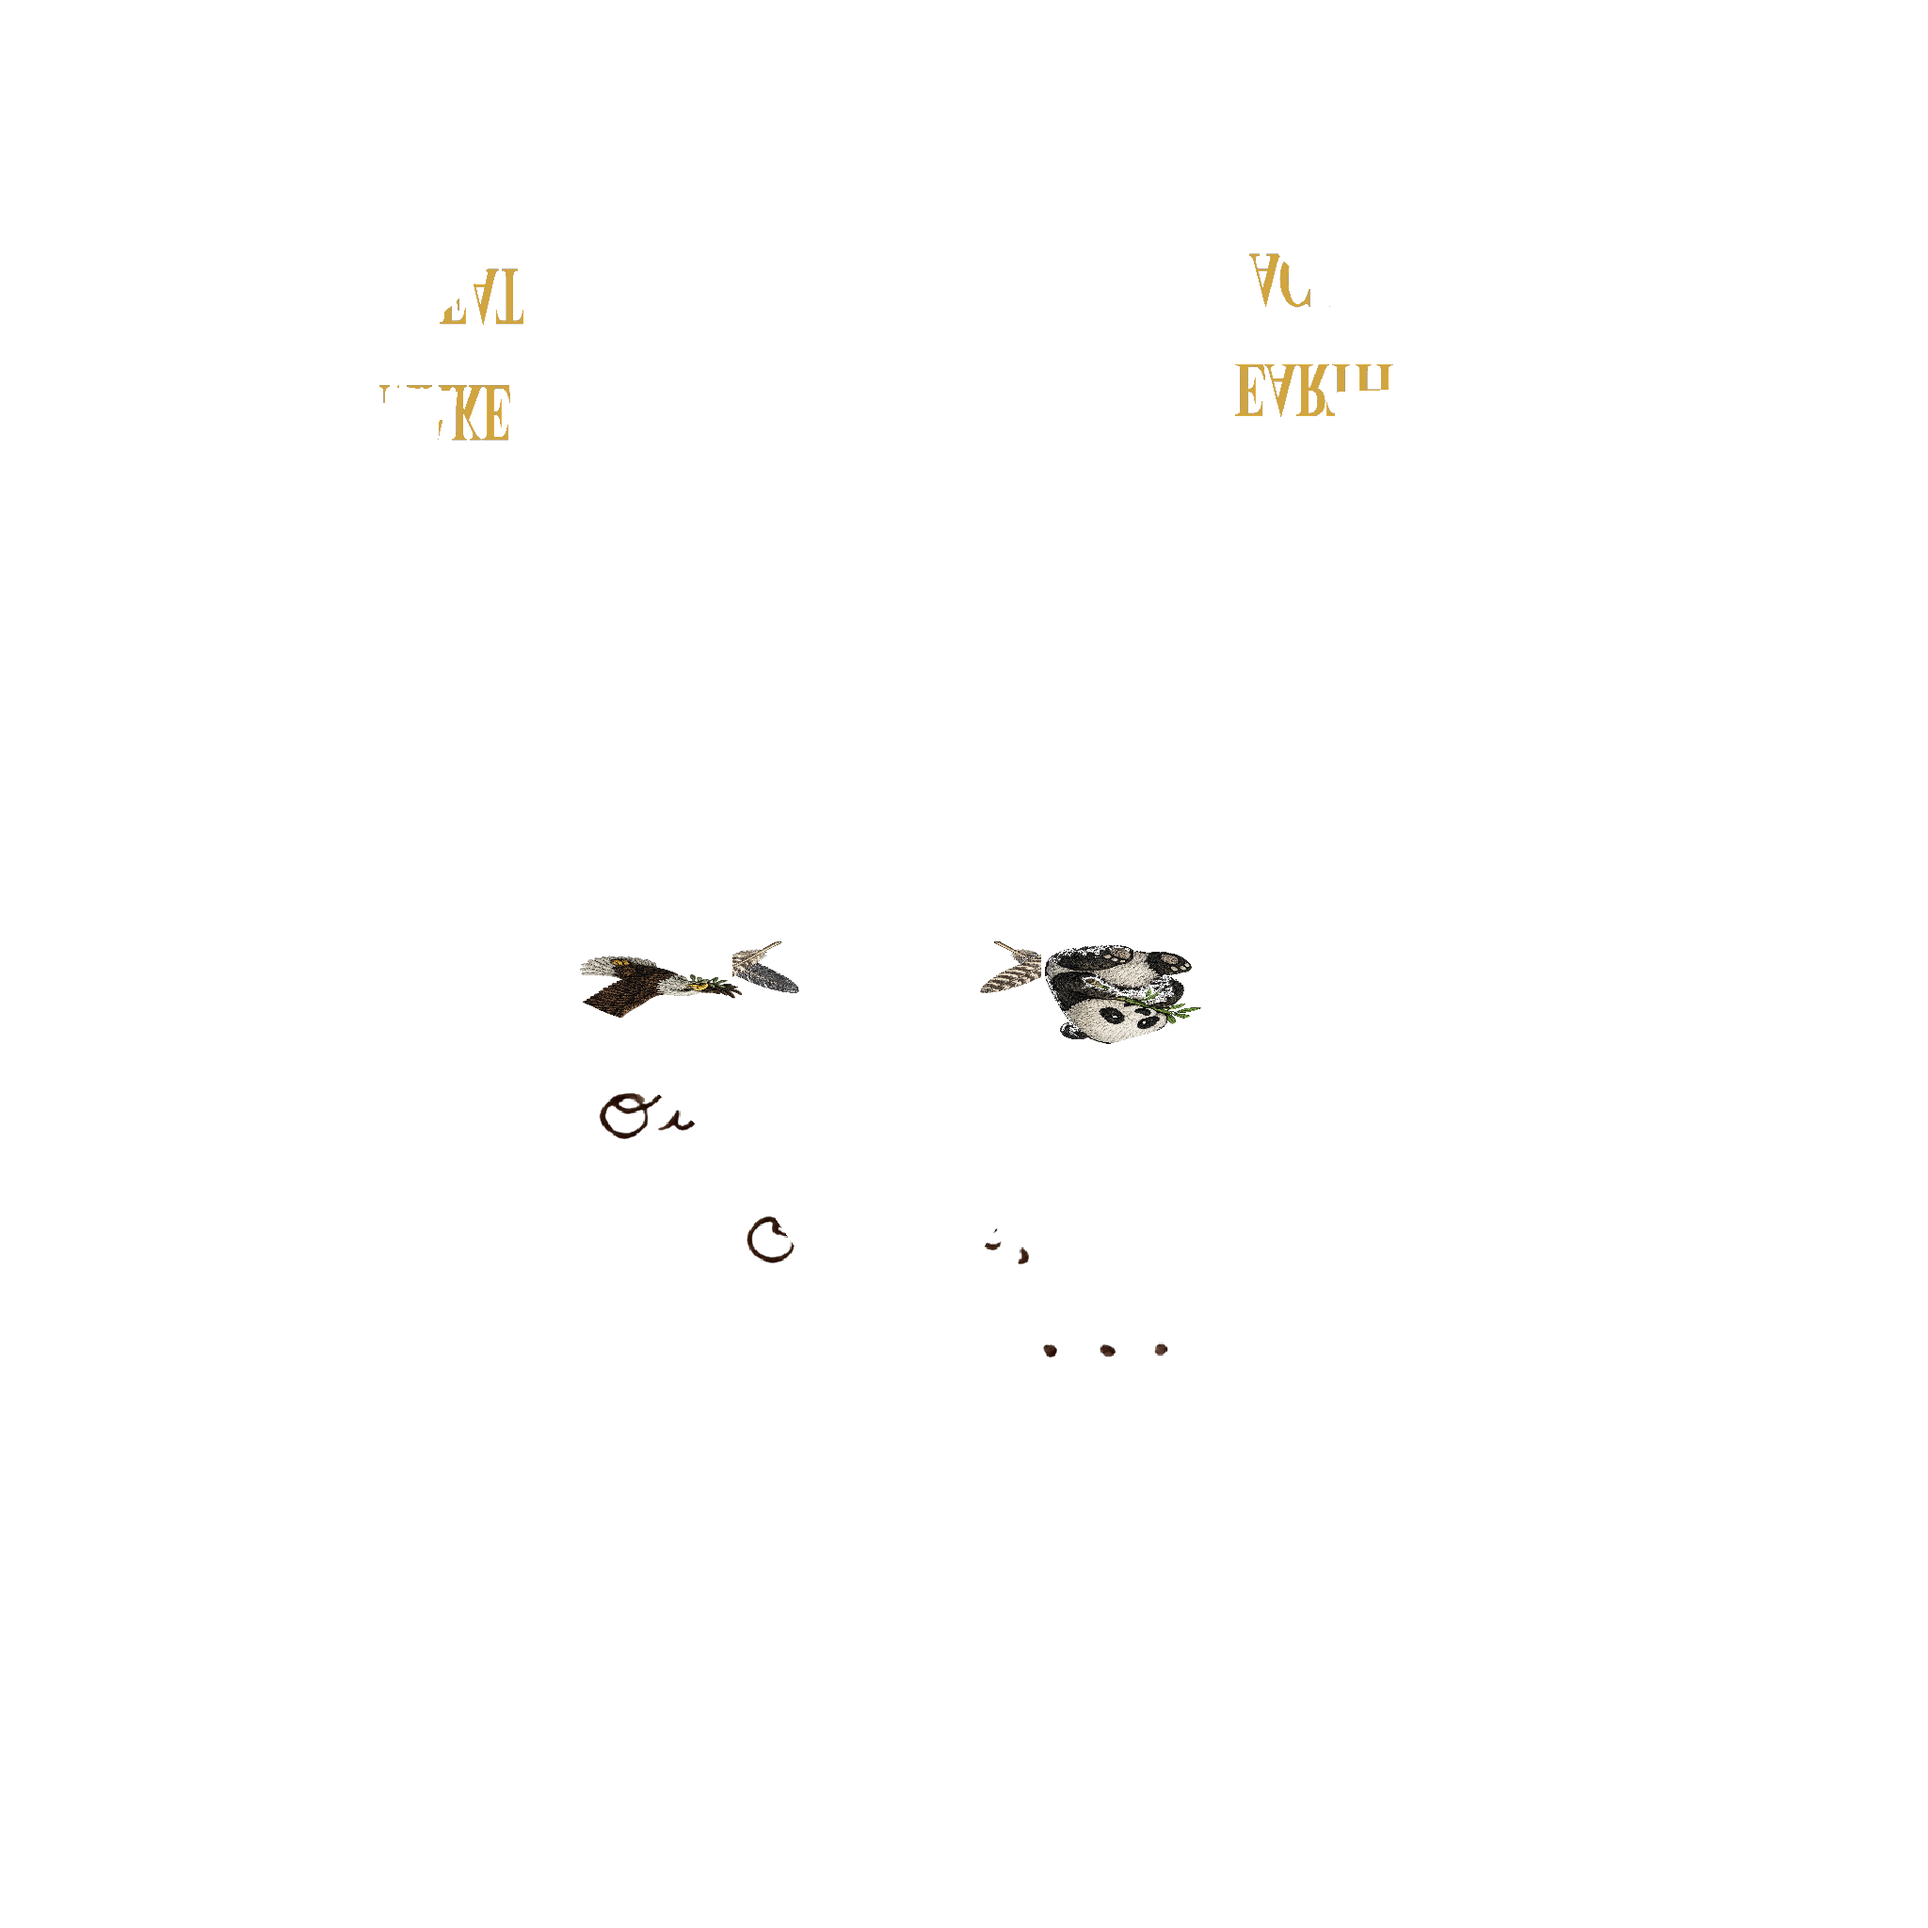
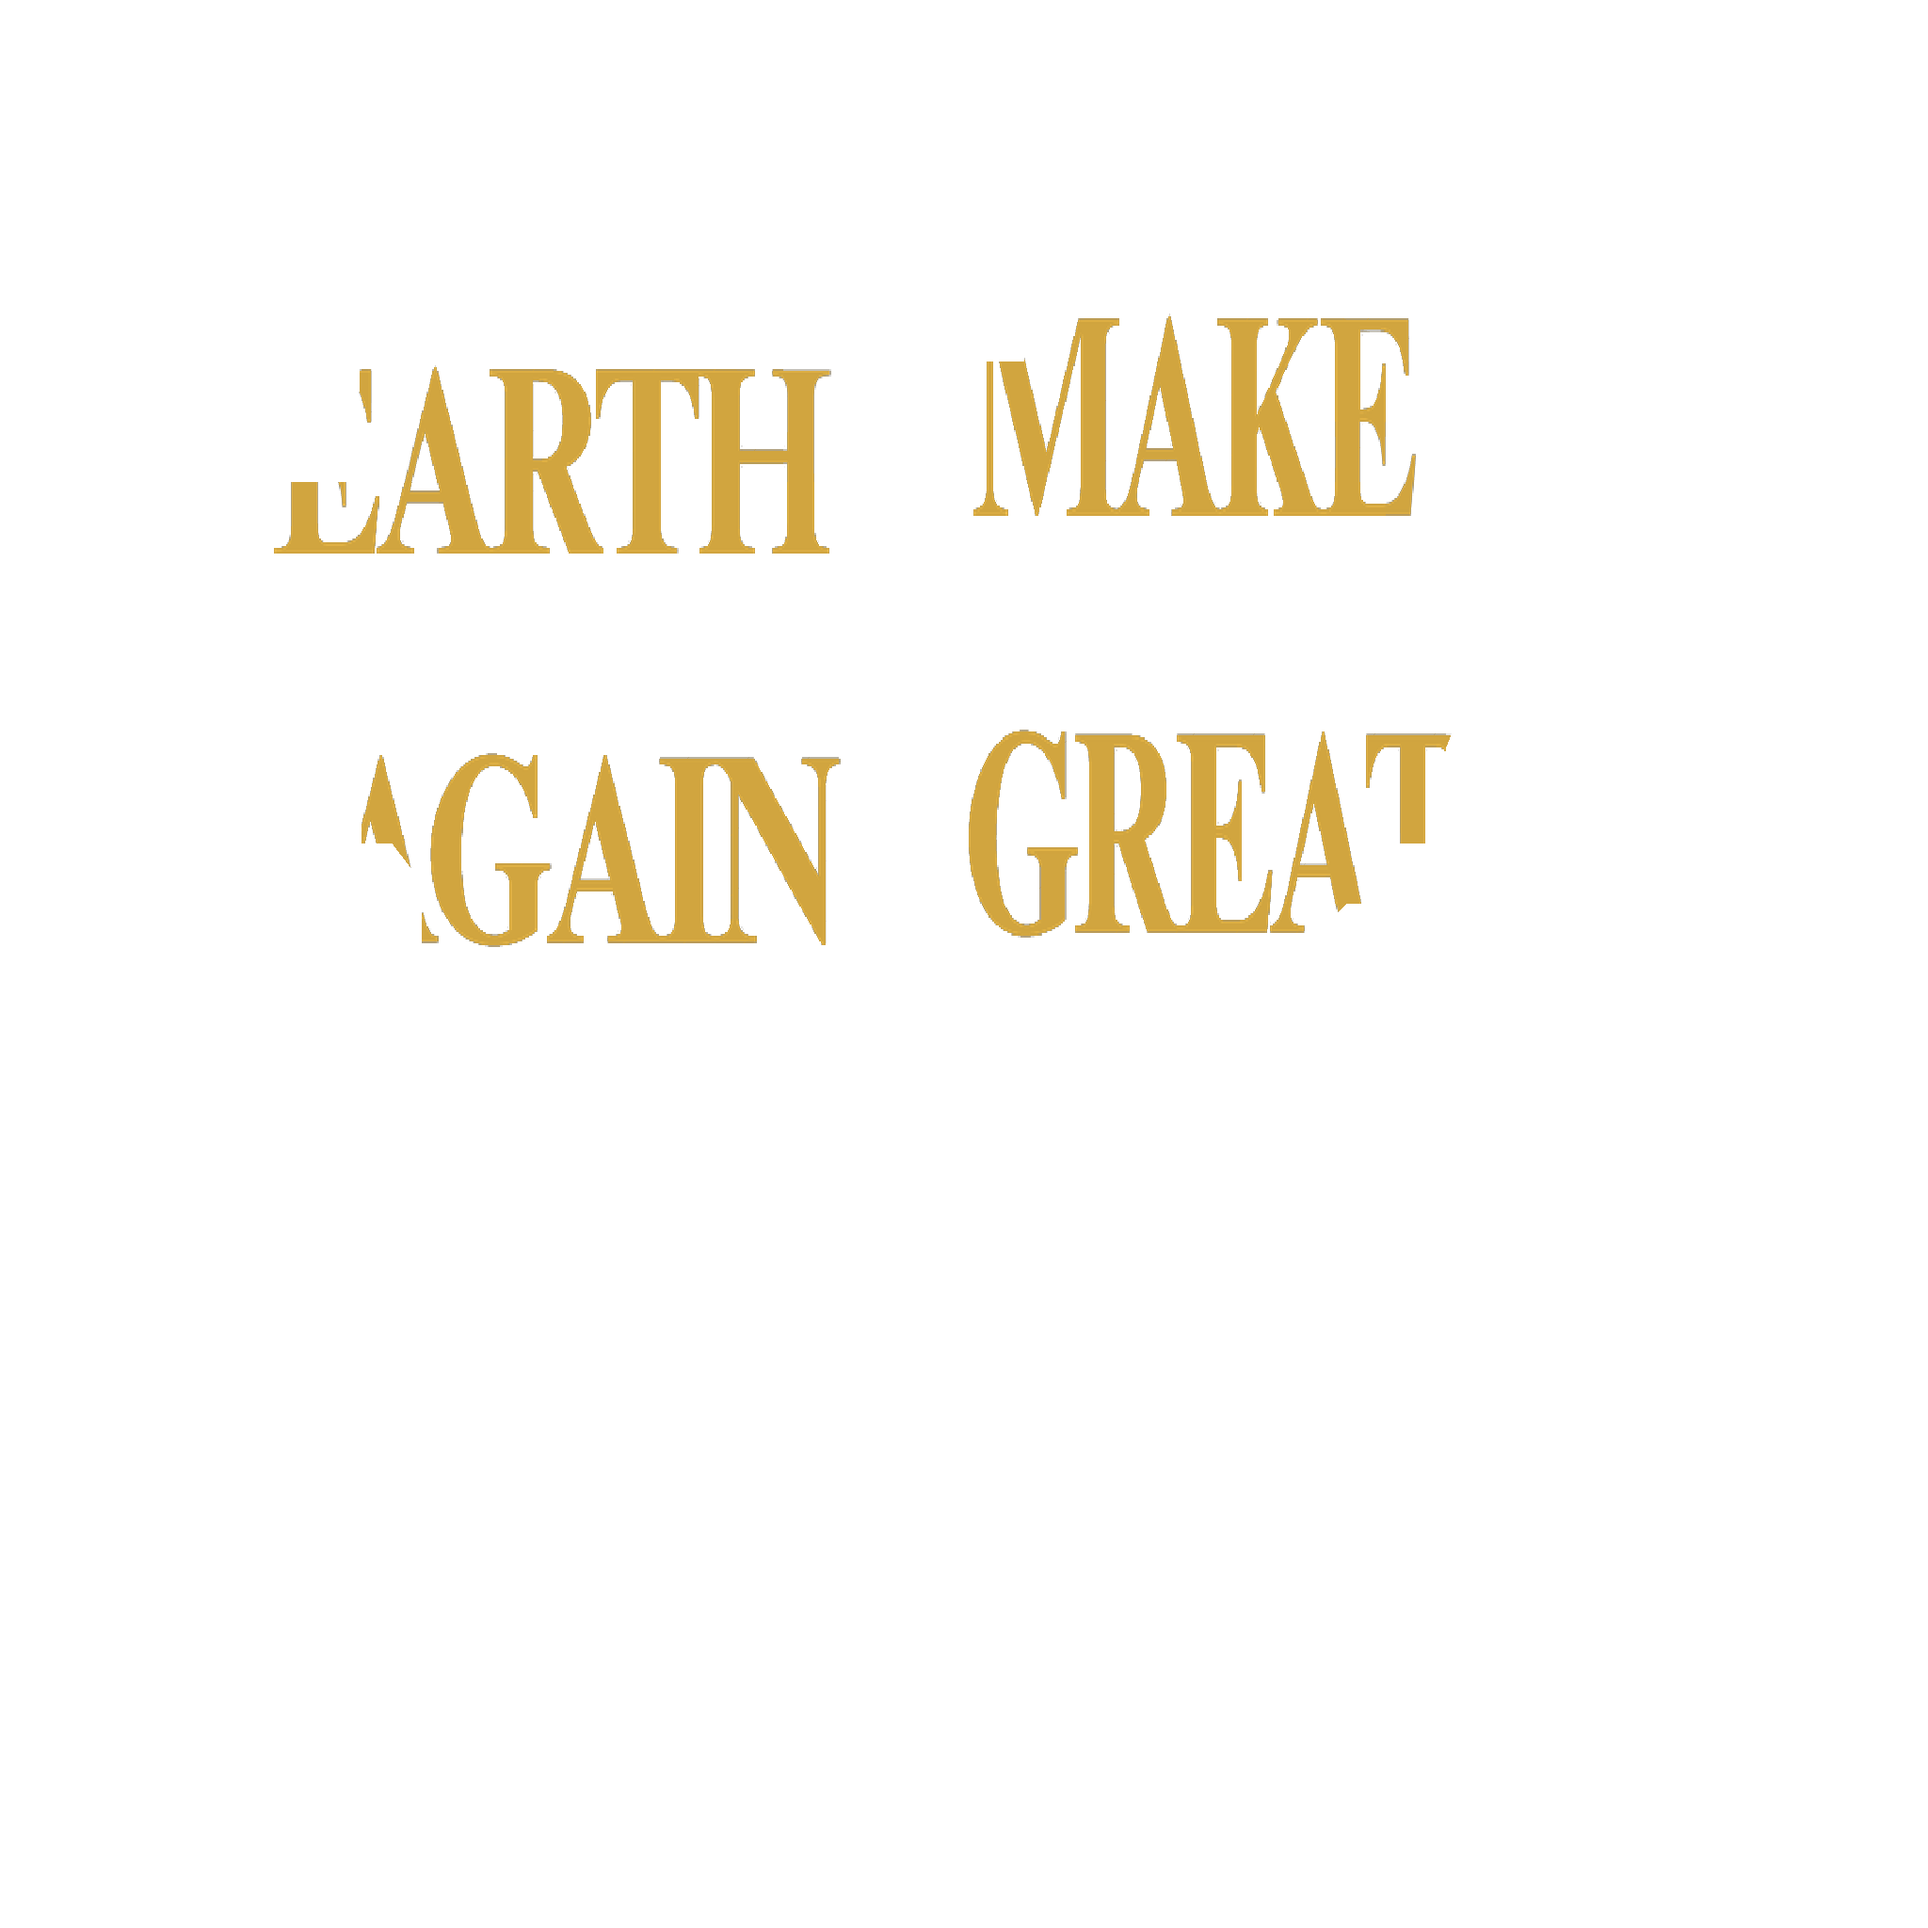
fix(hat): clean back of cap — drop eagle/panda/feathers from atlas + defaults
The cap mesh's UV layout has +Y back-facing tris overlapping the upper
half of the outer panels in V — the same atlas pixels are sampled by
both the front face (where MEGA lives) and the back wall. Painting
eagle/panda/feathers into the LOW-V half of each panel produced
fragmented decal artifacts visible on the rear of the rendered cap.

- bake_cap_decals.py: remove the eagle / panda / feathers / inside-label
  paint blocks. Atlas now contains only the front MEGA text. Hit log
  shows mega_L=408369 mega_R=396251, no other decals.
- types/hat.ts: drop the back/inside decals from the default cap. They
  remain available as decal definitions but aren't applied by default.
  Re-enabling requires a re-UV-unwrap so front and back occupy
  disjoint UV islands.
- public/images/cap_decals_atlas.png: regenerated. 17 KB smaller; back
  of rendered cap is now clean white.

diff --git a/src/types/hat.ts b/src/types/hat.ts
@@ -152,13 +152,13 @@ export function buildHat(colorway: Colorway): HatConfig {
     textColor: c.text,
     textStyle: 'gold-embroidery',
     size: 'M',
-    decals: [
-      FRONT_TEXT_DECAL,
-      BACK_EAGLE_DECAL,
-      BACK_FEATHERS_DECAL,
-      BACK_PANDA_DECAL,
-      INSIDE_LABEL_DECAL,
-    ],
+    // Default cap: front MEGA text only. The eagle / panda / feathers /
+    // inside-label decals are intentionally NOT in the default set —
+    // they're projected onto UV regions that bleed onto the back panel
+    // due to the current cap mesh's shared-island UV layout. Re-enable
+    // them here only after the mesh is re-UV-unwrapped with disjoint
+    // front/back islands.
+    decals: [FRONT_TEXT_DECAL],
   };
 }
 

diff --git a/scripts/bake_cap_decals.py b/scripts/bake_cap_decals.py
@@ -169,21 +169,23 @@ def uv_bbox_for_zone(tris, predicate):
     if not us: return None
     return (min(us), min(vs), max(us), max(vs))
 
+# Predicates tuned for the current .glb (X∈[-95..95], Y∈[-113..82], Z∈[-15..112]).
+# Front of cap = -Y (where the brim extends).  Back = +Y (strap).  Crown = +Z.
 def front_face_uv_bbox(tris):
     return uv_bbox_for_zone(tris, lambda t:
-        t['cy'] > 3.0 and 0.5 <= t['cz'] <= 3.0 and abs(t['normal'].y) > 0.5)
+        t['cy'] < -25.0 and 30.0 <= t['cz'] <= 80.0 and t['normal'].y < -0.4)
 
 def side_face_uv_bbox(tris, sign_x):
     """sign_x = -1 for cap-LEFT side panel, +1 for cap-RIGHT."""
     return uv_bbox_for_zone(tris, lambda t:
-        sign_x * t['cx'] > 3.0
-        and abs(t['cy']) < 1.5
-        and 0.8 <= t['cz'] <= 3.5
+        sign_x * t['cx'] > 50.0
+        and abs(t['cy']) < 30.0
+        and 30.0 <= t['cz'] <= 80.0
         and abs(t['normal'].x) > 0.5)
 
 def back_face_uv_bbox(tris):
     return uv_bbox_for_zone(tris, lambda t:
-        t['cy'] < -3.0 and 0.5 <= t['cz'] <= 3.5 and abs(t['normal'].y) > 0.5)
+        t['cy'] > 25.0 and 30.0 <= t['cz'] <= 80.0 and t['normal'].y > 0.4)
 
 front_uv_L = front_face_uv_bbox(tris_by_iid[iid_left])
 front_uv_R = front_face_uv_bbox(tris_by_iid[iid_right])
@@ -191,6 +193,23 @@ side_uv_L = side_face_uv_bbox(tris_by_iid[iid_left], -1)
 side_uv_R = side_face_uv_bbox(tris_by_iid[iid_right], +1)
 back_uv_L = back_face_uv_bbox(tris_by_iid[iid_left])
 back_uv_R = back_face_uv_bbox(tris_by_iid[iid_right])
+
+# Fallback: predicate-based detection can fail when the imported .glb's
+# vertex coords differ from the original-tuned thresholds. Use the panel
+# UV bbox split: HIGH V (top 30%) = front face, LOW V (bottom 30%) = back.
+def _frac(bbox, vlo, vhi):
+    u_lo, v_lo, u_hi, v_hi = bbox
+    span = v_hi - v_lo
+    return (u_lo, v_lo + vlo * span, u_hi, v_lo + vhi * span)
+
+if not front_uv_L: front_uv_L = _frac(bbox_L, 0.70, 1.00)
+if not front_uv_R: front_uv_R = _frac(bbox_R, 0.70, 1.00)
+if not back_uv_L  or (back_uv_L[3] - back_uv_L[1])  < 0.05: back_uv_L  = _frac(bbox_L, 0.00, 0.30)
+if not back_uv_R  or (back_uv_R[3] - back_uv_R[1])  < 0.05: back_uv_R  = _frac(bbox_R, 0.00, 0.30)
+print(f'front L (final): {front_uv_L}')
+print(f'front R (final): {front_uv_R}')
+print(f'back  L (final): {back_uv_L}')
+print(f'back  R (final): {back_uv_R}')
 print(f'front L: {front_uv_L}')
 print(f'front R: {front_uv_R}')
 print(f'side  L: {side_uv_L}')
@@ -363,10 +382,10 @@ mega_L_bbox = inset_bbox(front_uv_L, 0.05)
 mega_R_bbox = inset_bbox(front_uv_R, 0.05)
 hit_log['mega_L'] = paint_in_uv_bbox(
     mega_L_bbox, dimg['mega'], 0.0, 0.5, 0.0, 1.0,
-    tris_by_iid[iid_left], flip_v=True)
+    tris_by_iid[iid_left], flip_v=False)
 hit_log['mega_R'] = paint_in_uv_bbox(
     mega_R_bbox, dimg['mega'], 0.5, 1.0, 0.0, 1.0,
-    tris_by_iid[iid_right], flip_v=True)
+    tris_by_iid[iid_right], flip_v=False)
 
 def center_in_bbox(b, frac_w, frac_h):
     """Return a sub-bbox centered in b with given width/height fractions."""
@@ -391,53 +410,17 @@ def anchor_in_bbox(b, frac_w, frac_h, anchor_u=0.5, anchor_v=0.5):
     v0 = max(v_lo, cv - ch/2); v1 = min(v_hi, cv + ch/2)
     return (u0, v0, u1, v1)
 
-# Eagle on cap-LEFT back panel, panda on cap-RIGHT back panel.
-# Diagnostic shows the actual back-face UV footprints are:
-#   back L: U=[0.2772, 0.4516] V=[0.4414, 0.5825]
-#   back R: U=[0.4704, 0.6440] V=[0.4465, 0.5791]
-# U mapping (within back face):
-#   outer-LEFT: low U=back-side wraparound, high U=cap-center seam
-#   outer-RIGHT: low U=cap-center seam, high U=back-side wraparound
-# V mapping: low V=strap edge (BOTTOM), high V=apex (TOP)
-# User wants eagle+panda at BOTTOM CORNERS of back (just above strap).
-# Eagle on left-back corner: outer-LEFT panel, low U end (back-side edge).
-# Panda on right-back corner: outer-RIGHT panel, high U end (back-side edge).
-# V=[0.455, 0.510] = bottom-third of back face, ~14px above strap line.
-eagle_bbox = (0.290, 0.455, 0.385, 0.510)
-panda_bbox = (0.535, 0.455, 0.630, 0.510)
-hit_log['eagle'] = paint_in_uv_bbox(
-    eagle_bbox, dimg['eagle'], 0.0, 1.0, 0.0, 1.0,
-    tris_by_iid[iid_left], flip_v=True) if eagle_bbox else 0
-hit_log['panda'] = paint_in_uv_bbox(
-    panda_bbox, dimg['panda'], 0.0, 1.0, 0.0, 1.0,
-    tris_by_iid[iid_right], flip_v=True) if panda_bbox else 0
-
-# FEATHERS centered above the back-hat-hole, split across the cap-center seam.
-# Lower V than apex, but above the strap/hole. Anchor at the seam (u=1.0 on L, u=0.0 on R).
-# Feathers split centered, slightly above hat-hole / strap level.
-feathers_L_bbox = (0.380, 0.470, 0.450, 0.530)
-feathers_R_bbox = (0.470, 0.470, 0.540, 0.530)
-hit_log['feathers_L'] = paint_in_uv_bbox(
-    feathers_L_bbox, dimg['feathers'], 0.5, 1.0, 0.0, 1.0,
-    tris_by_iid[iid_left], flip_v=True) if feathers_L_bbox else 0
-hit_log['feathers_R'] = paint_in_uv_bbox(
-    feathers_R_bbox, dimg['feathers'], 0.0, 0.5, 0.0, 1.0,
-    tris_by_iid[iid_right], flip_v=True) if feathers_R_bbox else 0
-
-# INSIDE LABEL ("Out, Out, ...") on inner panels at back-center.
-# Inner panel V range [0.008, 0.487]; paint near top (back of cap interior)
-# split at the cap-center seam.
-if bbox_inner_L and bbox_inner_R:
-    hit_log['inside_L'] = paint_decal_on_panel(
-        tris_by_iid[iid_inner_left], bbox_inner_L,
-        u_lo_frac=0.50, u_hi_frac=0.95, v_lo_frac=0.55, v_hi_frac=0.95,
-        decal_img=dimg['inside'], ds_lo=0.0, ds_hi=0.5, dt_lo=0.0, dt_hi=1.0,
-        flip_v=False)
-    hit_log['inside_R'] = paint_decal_on_panel(
-        tris_by_iid[iid_inner_right], bbox_inner_R,
-        u_lo_frac=0.05, u_hi_frac=0.50, v_lo_frac=0.55, v_hi_frac=0.95,
-        decal_img=dimg['inside'], ds_lo=0.5, ds_hi=1.0, dt_lo=0.0, dt_hi=1.0,
-        flip_v=False)
+# Back panel decals (eagle, panda, feathers) DISABLED.
+# The cap mesh's UV layout has the +Y "back-facing" tris overlapping the
+# upper half of the outer panels in V — the same atlas pixels are sampled
+# by both the front face (where MEGA lives) and the back wall. Painting
+# the eagle / panda / feathers into the LOW-V half of each panel produced
+# fragmented artifacts visible on the rear of the rendered cap. The
+# Blender preview confirms the cap looks cleanest with MEGA only.
+#
+# To re-enable in the future: only after the mesh is re-UV-unwrapped so
+# that front and back faces occupy disjoint UV islands. Until then this
+# block is intentionally empty so the back of the cap stays clean white.
 
 print(f'\nbake done in {time.time()-t0:.1f}s')
 for k, v in hit_log.items():
